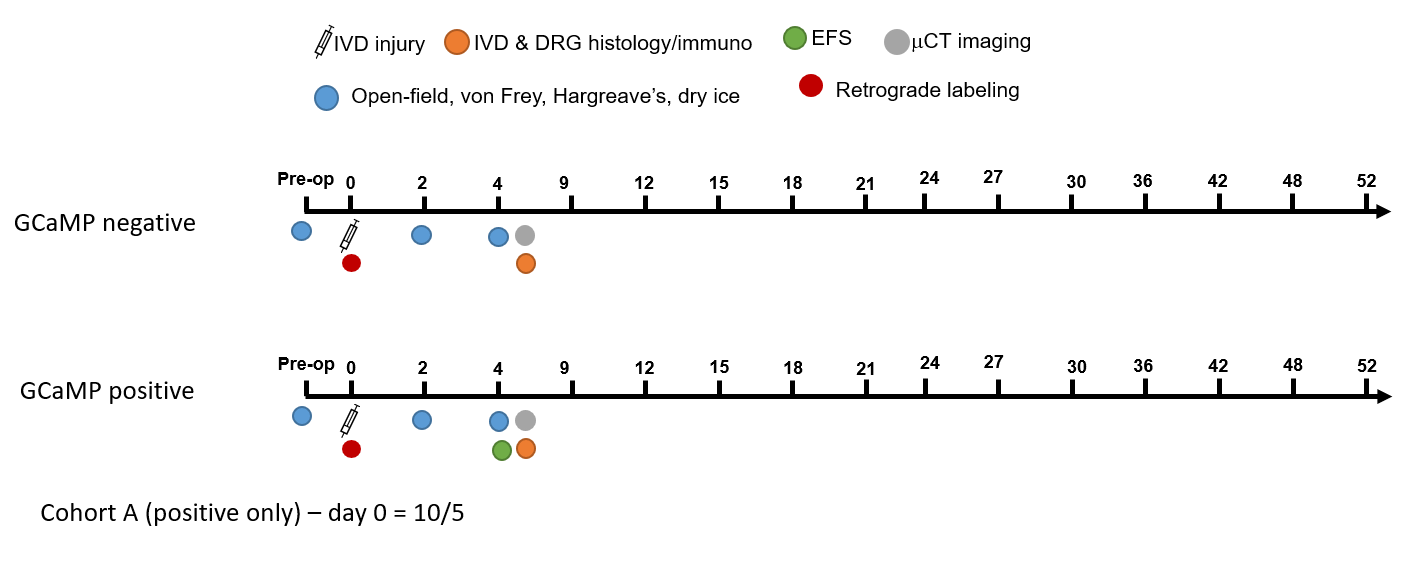
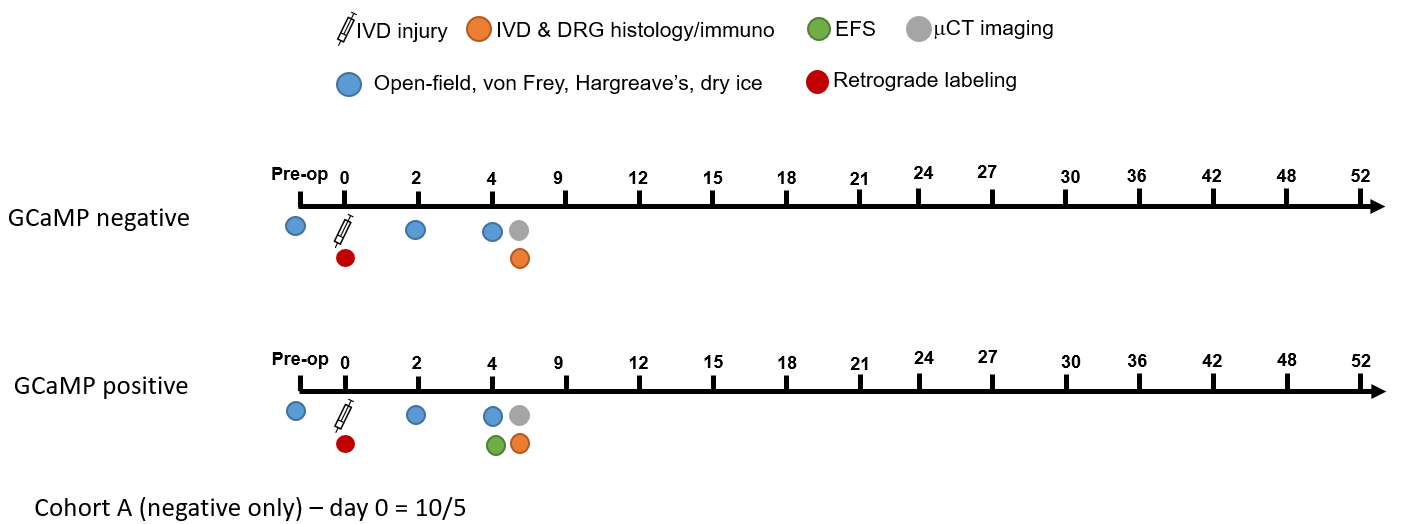
commit

diff --git a/app/templates/research/workflow.html b/app/templates/research/workflow.html
@@ -18,7 +18,7 @@ h5 {
     font-size: 20px;
     font-style: italic;
 }
-p, li {
+p, li, a {
 font-size: 20px;
 line-height: 1.6;
 }
@@ -55,6 +55,12 @@ html {
 #list span {
   position: absolute;
 }
+.behavior {
+    display: none;
+}
+figcaption {
+    margin-bottom: 15px;
+}
 </style>
 <div class="row">
 
@@ -72,38 +78,48 @@ html {
   </ol> 
 </div>-->
 <h4>Transgenic mouse model (Frank)</h4>
-<p>The Thy1-GCaMP6s/GP4.3 mouse model (Jackson Labs) will be used to allow for monitoring of the fluorescent calcium-sensitive molecule, GCaMP6s, in excitatory neurons for Aims 2 and 3 [1]. A total of 16 mice will be used in this cohort. Eight of these mice will be GCaMP6s-positive (GCaMP+) and eight will be GCaMP6s-negative (GCaMP-). Within each of these groups, half (4) will undergo sham surgery and half will undergo lumbar disc puncture to induce disc degeneration. All mice will be bred and housed in the Clinical Sciences Research Building (CSRB) on the WashU Medical Campus.</p>
-<h4>Surgical model to induce lumbar disc puncture (LDP) (Gupta/Frank/Remy)</h4>
-<p>At 8 weeks of age, mice will undergo either sham surgery or lumbar disc puncture at the Musculoskeletal Research Center (MRC). The surgery uses a lateral retroperitoneal approach to the mouse lumbosacral spine and is expected to take approximately 15 minutes. First, mice will be placed under 3% isoflurane in an isoflurane chamber to induce anesthesia and then maintained under 1.5% isoflurane via nose cone. The skin overlying the left hindlimb and lumbar spine will be shaved and prepped with ethanol and betadine. A dose of lidocaine (0.03ml for 20g, or 7 mg/kg?) is administered to the same area. The mouse is draped and placed on a heating pad. An approximately 1 cm incision is made overlying the left pelvis. The underlying fat pad and anteiror margin of the thigh is separated and retracted to expose the retroperitoneal space by blunt dissection. The bilateral psoas muscles are visualized and separated apart gently with a cotton-tipped applicator to expose the lumbar IVD, taking extra care to avoid disturbing the intra-abdominal great vessels. In the disc puncture group, the surface of the IVD will be punctured 3x times with a 30G needle (##do we want a specific depth?## to a depth of 1mm); in the sham group, the IVD is exposed but is left untouched.</p>
+<p>The Thy1-GCaMP6s/GP4.3 mouse model (Jackson Labs) will be used to allow for monitoring of the fluorescent calcium-sensitive molecule, GCaMP6s, in excitatory neurons for Aims 2 and 3 [1]. A total of 16 mice will be used in this cohort. Eight of these mice will be GCaMP6s-positive (GCaMP+) and eight will be GCaMP6s-negative (GCaMP-). Within each of these groups, half (4) will undergo sham surgery and half will undergo lumbar disc puncture to induce disc degeneration. All mice will be bred and housed in the Clinical Sciences Research Building (CSRB) on the WashU Medical Campus. <b>In Cohort A (first cohort with surgery on October 5th, 2021), all mice will be GCaMP6s negative.</b></p>
+<h4>Surgical model to induce lumbar disc puncture (LDP) (Gupta/Frank)</h4>
+<p>At 8 weeks of age, mice will undergo either sham surgery or lumbar disc puncture at the Musculoskeletal Research Center (MRC). The surgery uses a lateral retroperitoneal approach to the mouse lumbosacral spine and is expected to take approximately 15 minutes. First, mice will be placed under 3% isoflurane in an isoflurane chamber to induce anesthesia and then maintained under 1.5% isoflurane via nose cone. The skin overlying the left hindlimb and lumbar spine will be shaved and prepped with ethanol and betadine. A dose of lidocaine (0.03ml for 20g, or 7 mg/kg?) is administered to the same area. The mouse is draped and placed on a heating pad. An approximately 1 cm incision is made overlying the left pelvis. The underlying fat pad and anterior margin of the thigh is separated and retracted to expose the retroperitoneal space by blunt dissection. The bilateral psoas muscles are visualized and separated apart gently with a cotton-tipped applicator to expose the lumbar IVD, taking extra care to avoid disturbing the intra-abdominal great vessels. In the disc puncture group, the surface of the IVD will be punctured 3x times with a 30G needle (##do we want a specific depth?## to a depth of 1mm); in the sham group, the IVD is exposed but is left untouched.</p>
+<a id="behavior" class="lbl-toggle">View procedure images</a>
+<div class="behavior toggle">
 <img src="{{ url_for('static',filename='img/drg/surgery1.png') }}">
 <caption><b>Figure 1: Lateral retroperitoneal approach to the mouse lumbosacral spine</b> (A):  The palpatable superficial anatomical landmarks are denoted by 1) the blue dotted line which outlines anterior margin of the thigh and bony prominence of the pelvis, and 2) the red dotted line which outlines the fat pad located between the thigh and abdominal wall.  The black solid line is an approximately 1 cm incision along the pelvis line that reveals the surgical access point adjacent to the anterior thigh. (B and C): The access point to the retroperitoneal space lies between the blue and red dotted lines.  The underlying fat pad and anterior margin of the thigh can be easily separated and retracted to expose the retroperitoneal space by blunt dissection. (D): The pelvis is rotated posteriorly to expose a broad working space by gripping (a) with forceps. The area (c) between (a) and (b) is carefully separated by blunt dissection to expose the psoas muscle: (a) gluteus muscles and left pelvic bone; (b) oblique abdominal muscles; (c) opening to the retroperitoneal space.
 </caption>
 <img src="{{ url_for('static',filename='img/drg/surgery2.png') }}">
 <caption><b>Figure 2: Retroperitoneal dissection to expose the lumbosacral intervertebral disc using microscopic guidance</b>
 (A): The No. 11-scalpel blade indicates the left pelvic bone and forceps grip the gluteus muscles. (B): The pelvis can be rotated posteriorly to increase working space by raising the gluteus muscles and rotating the left pelvic bone. The abdominal wall and peritoneum are retracted anteriorly by a Penfield dissector to expose the psoas muscles. (C): The psoas muscle can be stripped posteriorly-to-anteriorly by scraping out muscles attached to the anterior surface of the pelvis with a Penfield dissector. (D): Superior margin of the pelvic bone indicating the L6 vertebral body. (E): X-ray confirms the position of the pelvis relative to the L5/6 and L6/S1 intervertebral discs.
-
 </caption>
-<h4>Retrograde labeling of IVD and Postoperative Monitoring</h4>
+</div>
+<h4>Retrograde labeling of IVD and postoperative monitoring (Gupta/Frank)</h4>
 <p>During the third puncture, the needle will be inserted to a depth of 1 mm, and a dose of 3 uL of Fluoro-Ruby solution (10% m/v diluted in distilled water, Invitrogen, Catalog No. D1817) will be gradually injected with a Hamilton microsyringe over 1 minute. The needle will then be withdrawn. The hole will then be sealed with cyanoacrylate, which is given 5 minutes to dry. Afterwards, the abdominal muscles will be closed with 4-0 vicryl running suture, then skin with 4-0 monofilament interrupted suture.</p>
 <p>After skin closure, a dose of carprofen (5 mg/kg or 0.12ml for 20g mouse) will be administered intraperitoneally. Mice are observed continuously until animal regains use of its ipsilateral hind leg and is able to move around the cage. Mice are thereafter monitored every 6-8 hours for wound healing and mobility. Chewable carprofen tablets are additionally administered as needed (1.25 mg/mouse). Infection, signs of moderate to severe pain or distressed not anticipated by the study plan, mutilation of operative site or other self-mutilation will require veterinary consultation. Neurological or cardiopulmonary disorders not anticipated by the study plan, and non-weight bearing for 72 hours will require euthanasia as a humane endpoint.</p>
-<p>(## might be hard to confirm location with X-ray without a tag left in ##) Planar X-rays of the whole mouse will be obtained via digital X-ray (Faxitron Multifocus) immediately after surgery to confirm location and degree of injury.</p>
 <h4>Behavioral testing (Frank)</h4>
 <p>All behavioral assessments will be performed in the MRC. Animals will be acclimated to investigator handling over 7 days and then subsequently acclimated to behavioral testing over 4 consecutive days prior to behavioral assessments. Pre-operative baseline behavior assay will be conducted the week leading up to the surgery, and then behavioral assessments will be performed at 2 weeks and 4 weeks post-operatively. Each day, mice are left undisturbed in the testing environment for one hour before assays begin.</p>
 <p>Voluntary locomotor activity will be assessed using the Omnitech Electronics Superflex open field system. Mice are placed into the center of a clear, open 16"x16" Plexiglass chamber. The location of the mice are tracked with infrared photosensors for 30 minutes. General locomotor activity (distance traveled, time spent traveling) is acquired using AccuScan Fusion software (Omnitech).</p>
+<img src="{{ url_for('static',filename='img/drg/openfield.png') }}">
 <p>Voluntary locomotor activity will also be assessed using the BIO-ACTIVW-M, Bioseb running wheel. Tests occur in a cage similar to the mice's home cage, with the exception of the addition of a 35 x 20 x 13 cm wheel. The Bioseb software analyzes wheel activity, including distance traveled, mean speed, maximum speed, and total active time. The animal spends 12 hours in this cage.</p>
-<p>Mechanical sensitivity will be assessed with Bioseb electronic von Frey filaments on the plantar surface of hind paws. Mice are placed into clear observation enclosures with an open floor placed atop a wire grid to allow access to the plantar surface of the subject's feet. We wait for the mice to become still with no walking or rearing. For each foot (left and right), a soft tip of 0.5 mm diameter is applied to the mid-plantar surface of the hindpaw of the mouse with increasing force. The force at which the foot is withdrawn is measured by the system and dispalyed with a resolution of 0.1g and recorded. A withdrawal response is defined as flicking or licking of the stimulated paw. Gradual movement of the paw away from the stimulator will not be considered a withdrawal response; in this case, the trial will be re-attempted. The trial is repeated for a total of 2 datapoints, which is then averaged. </p>
-<p>Cold sensitivity will be measured using Cold Plantar Assay, in which a syringe filled with compressed dry ice is applied to the glass surface beneath the plantar surface of the hindpaw.</p>
-<p>Heat sensitivity will be assessed using the Hargreaves test, where a radiant heat source will be focused on the plantar surface of the hind paw [<a href="#2">2</a>].</p>
-<h4>Sacrifice and tissue harvest (Frank)</h4>
-<p>Four weeks postoperatively, mice will be sacrificed via carbion dioxide inhalation and intact DRGs (bilateral L1-L4) or lumbar IVDs (L5-L6 and two adjacent lumbar levels L3-L4 and L4-L5) will be harvested according to group. DRG harvest will be done via a ventral approach involving removal of the vertebral bodies exposing the ventral side of the vertebral canal allowing access to the dorsal nerve roots [<a href="#3">3</a>].</p>
+<img src="{{ url_for('static',filename='img/drg/wheel.png') }}">
+<p>Mechanical sensitivity will be assessed with Bioseb electronic von Frey filaments on the plantar surface of hind paws. Mice are placed into clear observation enclosures with an open floor placed atop a wire grid to allow access to the plantar surface of the subject's feet. We wait for the mice to become still with no walking or rearing. For each foot (left and right), a soft tip of 0.5 mm diameter is applied to the mid-plantar surface of the hindpaw of the mouse with increasing force. The force at which the foot is withdrawn is measured by the system and displayed with a resolution of 0.1g and recorded. A withdrawal response is defined as flicking or licking of the stimulated paw. Gradual movement of the paw away from the stimulator will not be considered a withdrawal response; in this case, the trial will be re-attempted. The trial is repeated for a total of 2 datapoints, which is then averaged. </p>
+<img src="{{ url_for('static',filename='img/drg/evf.jpg') }}">
+<p>Cold sensitivity will be measured using a simplified Cold Plantar Assay, in which a syringe filled with compressed dry ice is applied to the glass surface beneath the plantar surface of the hindpaw [Brenner 2015]. Mice are placed into a clear observation enclosure placed on top of a glass floor. Dry ice is crushed into a fine powder and compressed into a 3 ml syringe with its end cut off. The flat surface of the dry ice is pushed against the glass surface underneath the mouse hindpaw and a hand-timer is started. The stimulus is applied and the timer continues until the mouse permanently moves the paw away from the stimulated surface, or until 20 seconds. The stimulation will be repeated until at least 3 values on each hindpaw of the animal is collected. Trials testing opposite paws on the same mouse will be separated by at least 7 minutes, and trials testing the same paw will be separated by at least 15 minutes. Note that in the original paper, Brenner first cools the glass before administering cold stimuli. This might have to be done if things don't work.</p>
+<figure>
+<img src="{{ url_for('static',filename='img/drg/cpa.png') }}">
+<figcaption><b>Figure 3: The Cold Plantar Assay (CPA) apparatus.</b> Schematic for performing the CPA. Mice are acclimated on a glass plate in plastic behavioral enclosures until they are at rest. A dry ice pellet is applied to the underside of the glass underneath the hindpaw, and the latency to withdraw from the cooling glass is measured.</figcaption>
+</figure>
+<p>Heat sensitivity will be assessed utilizing the Hargreaves method, where a radiant heat source will be focused on the plantar surface of the hind paw (IITC Plantar Analgesia Meter). Mice are placed into clear observation enclosures with an open floor placed atop a wire grid to allow access to the plantar surface of the subject's feet. We wait for the mice to become still with no walking or rearing. A light beam, initially in an idle state, is positioned to focus on a 4x6mm spot on the paw. The heat source is then gradually intensified up to a pre-set temperature. The temperature at which the foot is withdrawn is recorded. A humane cut-off occurs at ??. The stimulation will be repeated until at least 3 values on each hindpaw of the animal is collected. Trials testing opposite paws on the same mouse will be separated by at least 7 minutes, and trials testing the same paw will be separated by at least 15 minutes.</p>
+<img src="{{ url_for('static',filename='img/drg/heat.jpg') }}" width="75%">
+<h4>Sacrifice, IVD and DRG harvest (Frank)</h4>
+<p>Four weeks postoperatively, intact DRGs (bilateral L1-L4) and lumbar IVDs (L5-6 and an adjacent level) will be harvested. First, the animal is euthanized via carbion dioxide inhalation. A transcardial perfusion is performed with artificial cerebrospinal fluid (aCSF, 124 mM NaCl, 5 mM KCl, 20 mM HEPES, 10 mM D-glucose, 1.3 mM MgCl2, 1.5 mM CaCl2, 26 mM NaHCO3, 1.25 mM NaH2PO4) after which DRG tissues are isolated via a dorsal approach. Following a midline dorsal incision, paraspinal muscluature, connective tissue, and fat are carefully removed with micro-dissection scissors to reveal the dorsal bony elements of the spine. Micro-rongeurs are then used to perform a multi-level laminectomy to expose the spinal cord, which is gently repositioned to expose the DRGs at each spinal level. Fine forceps are used to grasp the distal nerve root and gently remove the DRG from the neuroforamen, and spring scissors are used to carefully cut the nerve roots proximal and distal to the DRG. The vertebral column ventral to the spinal cord is isolated and frozen for microCT. Isolated DRGs are incubated in aCSF and used for EFS experiments within 8 h of isolation.</p>
+<img src="{{ url_for('static',filename='img/drg/laminectomy.jpg') }}">
 <h4>Electrical field stimulation (Frank)</h4>
 <p>Isolated intact lumbar DRGs will be placed in the center of a recording chamber, secured by a nylon mesh, and perfused with artificial cerebrospinal fluid (aCSF) at 2 ml/min. Two electrodes connected to a pulse generator (Grass SD9) will be inserted at opposite ends of the chamber and DRGs will be stimulated with bipolar square pulses (1ms, 10Hz, 19s rest) at voltage amplitudes from 5-100V. GCaMP66s fluorescence change over time will be imaged at 488/510 nm with a spinning disc confocal microscope (Nikon Eclipse Ti2). A histogram of DRG neuron threshold voltages will be obtained. Dependence of action potential generation upon Nav1.x channels will be assessed using a pan-Nav channel blocker (tetrodotoxin, TTX 50nM). A dose response curve will be generated for varying concentrations of TTX 0.5-100 nm.</p>
-<h4>Contrast-enhanced microCT (CEmCT) of the IVD (Tang/Remy)</h4>
-<p>Structural changes of harvested IVD tissue will be monitored via CEmCT (to be updated).</p>
-<h4>IVD organ culture and characterization of conditioned media (Tang/Remy)</h4>
-<p>Isolated IVD organs will be cultured for up to 21-days post-sacrifice in 24-well plates, with each well containing 2 ml of 1:1 DMEM:F12 (with 20% FBS and 1% pen-strep). Media will be collected at 48 hours and frozen at -80 C until analyzed via multiplex assay for simultaneous quantification of 13 mouse cytokines.</p>
+<h4>Contrast-enhanced microCT (CEmCT) of the IVD (Tang)</h4>
+<p>Structural changes of harvested IVD tissue will be monitored via CEmCT. Functional Spine Units (FSUs) containing an intact intervertebral disc sandwiched by the intact end-plate and vertebrae on both ends are dissected from the freshly frozen vertebral column. These FSUs are incubated in a 1ml solution of 50mg/ml Ioversol (from a stock solution of 350 mg/ml Ioversol) and 1% penstrep in 1ml PBS at 37C. After a one-day incubation period, the sample is prepared for day 0 scan. Samples are scanned using a VivaCT40 at 45kVp, 177uA, high resolution, 300ms integration, and 10um voxel size (Scanco Medical, CH). After each microCT scan the sample is returned to the incubation solution.</p>
+<h4>IVD organ culture and characterization of conditioned media (Tang)</h4>
+<p>(To be updated) Isolated IVD organs will be cultured for up to 21-days post-sacrifice in 24-well plates, with each well containing 2 ml of 1:1 DMEM:F12 (with 20% FBS and 1% pen-strep). Media will be collected at 48 hours and frozen at -80 C until analyzed via multiplex assay for simultaneous quantification of 13 mouse cytokines.</p>
 <h4>Immunohistochemistry of DRGs and IVDs (Liufang)</h4>
-<p>Subsequent to EFS experiments, DRGs will be immunolabeled for presence of CGRP, PGP9.5, select voltage-gated sodium channels, TRPA1 and TRPV1. The % of neurons and MFI (mean fluorescence intensity) for each protein target will be quantified for each level (L1, L2, L3 & L4) to test for spatial and temporal pattern of neuronal remodeling after LDP. The % of DiI+ neurons positive will be quantified.</p>
+<p>(To be updated) Subsequent to EFS experiments, DRGs will be immunolabeled for presence of CGRP, PGP9.5, select voltage-gated sodium channels, TRPA1 and TRPV1. The % of neurons and MFI (mean fluorescence intensity) for each protein target will be quantified for each level (L1, L2, L3 & L4) to test for spatial and temporal pattern of neuronal remodeling after LDP. The % of DiI+ neurons positive will be quantified.</p>
 <p>Subsequent to IVD organ culture, thick (~ 500 um) IVD blocks will be immunolabeled with PGP9.5 to visualize nerve fiber density, tortuosity, connectivity, and overall length of immunolabeled structure.</p>
 
 <div class="references">
@@ -113,11 +129,16 @@ html {
     <li>Zhang, Y., Kerns, J. M., Anderson, D. G., Lee, Y. S., Chen, E.-Y., Tannoury, C., & An, H. S. (2006). Sensory Neurons and Fibers from Multiple Spinal Cord Levels Innervate the Rabbit Lumbar Disc. American Journal of Physical Medicine & Rehabilitation, 85(11), 865–871. doi:10.1097/01.phm.0000242633.412</li>
     <li>Radtke C, Kocsis JD, Baumgärtner W, Vogt PM. Fluoro-Ruby as a reliable marker for regenerating fiber tracts. Innov Surg Sci. 2017 Feb 25;2(1):9-13. doi: 10.1515/iss-2016-0019. PMID: 31579728; PMCID: PMC6754006.</li>
     <li>Orita S, Ohtori S, Taniguchi A, Yamashita M, Yamauchi K, Inoue G, Suzuki M, Eguchi Y, Ochiai N, Kishida S, Takaso M, Aoki Y, Takahashi K, Kawakami M. Direct evidence for sensory innervation of the dorsal portion of the Co5/6 coccygeal intervertebral disc in rats. Spine (Phila Pa 1976). 2010 Jun 15;35(14):1346-52. doi: 10.1097/BRS.0b013e3181c099b0. PMID: 20354476.</li>
+    <li>Brenner DS, Golden JP, Vogt SK, Gereau RW 4th. A simple and inexpensive method for determining cold sensitivity and adaptation in mice. J Vis Exp. 2015;(97):52640. Published 2015 Mar 17. doi:10.3791/52640</li>
+    <li>Lin KH, Wu Q, Leib DJ, Tang SY. A novel technique for the contrast-enhanced microCT imaging of murine intervertebral discs. J Mech Behav Biomed Mater. 2016;63:66-74. doi:10.1016/j.jmbbm.2016.06.003</li>
+    <li>Berke, I. M., McGrath, T. M., Stivers, J. J., Gui, C., Barcellona, M. N., Gayoso, M. G., Tang, S. Y., Cao, Y. Q., Gupta, M. C., & Setton, L. A. (2021). Electric Field Stimulation for the Functional Assessment of Isolated Dorsal Root Ganglion Neuron Excitability. Annals of Biomedical Engineering, 49(3), 1110–1118. https://doi.org/10.1007/s10439-021-02725-y</li>
 <li id="1">Millecamps, M., & Stone, L. S. (2018). Delayed onset of persistent discogenic axial and radiating pain after a single-level lumbar intervertebral disc injury in mice. In Pain (Vol. 159, Issue 9). https://doi.org/10.1097/j.pain.0000000000001284</li>
 <li id="2">Deuis, J. R., Dvorakova, L. S., & Vetter, I. (2017). Methods used to evaluate pain behaviors in rodents. Frontiers in Molecular Neuroscience, 10(September), 1–17. https://doi.org/10.3389/fnmol.2017.00284</li>
 <li id="3">Fornaro, M., Sharthiya, H., Tiwari, V. Adult Mouse DRG Explant and Dissociated Cell Models to Investigate Neuroplasticity and Responses to Environmental Insults Including Viral Infection. <em>J. Vis. Exp.</em> (133), e56757, doi:10.3791/56757 (2018).</li>
 </ol>
-
+{% endblock %}
+{% block scripts %}
+{{ super() }}
 <script>
     new Calendar('#calendar', {
         mouseOnDay: function(e) {
@@ -165,13 +186,20 @@ html {
                 id: 1,
                 name: 'Pre-operative Behavior Acclimation and Testing',
                 location: 'MRC (Frank)',
-                startDate: new Date(2021, 8, 17),
+                startDate: new Date(2021, 8, 22),
                 endDate: new Date(2021, 9, 4)
+            },
+            {
+                id: 1,
+                name: 'Transfer to CSRB',
+                location: '',
+                startDate: new Date(2021, 8, 15),
+                endDate: new Date(2021, 8, 21)
             },
             {
                 id: 2,
                 name: 'Surgery',
-                location: 'MRC (Gupta/Tang)',
+                location: 'MRC (Gupta/Frank)',
                 startDate: new Date(2021, 9, 5),
                 endDate: new Date(2021, 9, 5)
             },
@@ -190,47 +218,61 @@ html {
                 endDate: new Date(2021, 9, 31)
             },
             {
+                id: 1,
+                name: 'Transfer to Whitaker',
+                location: '',
+                startDate: new Date(2021, 10, 1),
+                endDate: new Date(2021, 10, 7)
+            },
+            {
                 id: 4,
                 name: 'CEmCT (4 weeks)',
-                location: 'MRC (Tang/Remy)',
+                location: 'MRC (Tang)',
                 startDate: new Date(2021, 10, 8),
-                endDate: new Date(2021, 10, 8)
+                endDate: new Date(2021, 10, 12)
             },
             {
                 id: 5,
                 name: 'Sacrifice and IVD+DRG tissue harvest (4 weeks)',
                 location: 'Whitaker (Frank)',
                 startDate: new Date(2021, 10, 8),
-                endDate: new Date(2021, 10, 8)
+                endDate: new Date(2021, 10, 12)
             },
             {
                 id: 6,
                 name: 'EFS (4 weeks)',
                 location: 'Whitaker (Frank)',
                 startDate: new Date(2021, 10, 8),
-                endDate: new Date(2021, 10, 8)
+                endDate: new Date(2021, 10, 12)
             },
             {
                 id: 7,
                 name: 'DRG Immunolabeling (4 weeks)',
                 location: 'Whitaker (Liufang)',
                 startDate: new Date(2021, 10, 8),
-                endDate: new Date(2021, 10, 8)
+                endDate: new Date(2021, 10, 12)
             },
             {
                 id: 8,
                 name: 'IVD organ culture (4 weeks)',
-                location: 'MRC (Tang/Remy)',
+                location: 'MRC (Tang)',
                 startDate: new Date(2021, 10, 8),
                 endDate: new Date(2021, 10, 12)
             },
             {
                 id: 9,
-                name: 'IVD immunohistochemistry (4 weeks)',
+                name: 'IVD Immunolabeling (4 weeks)',
                 location: 'Whitaker (Liufang)',
                 startDate: new Date(2021, 10, 8),
-                endDate: new Date(2021, 10, 8)
+                endDate: new Date(2021, 10, 12)
             },]
+    });
+$(document).ready(function () {
+    $("#behavior").click(function() {
+         $("." + this.id).slideToggle("", function() {
+
+         });
+      });
     });
 </script>
 {% endblock %}
